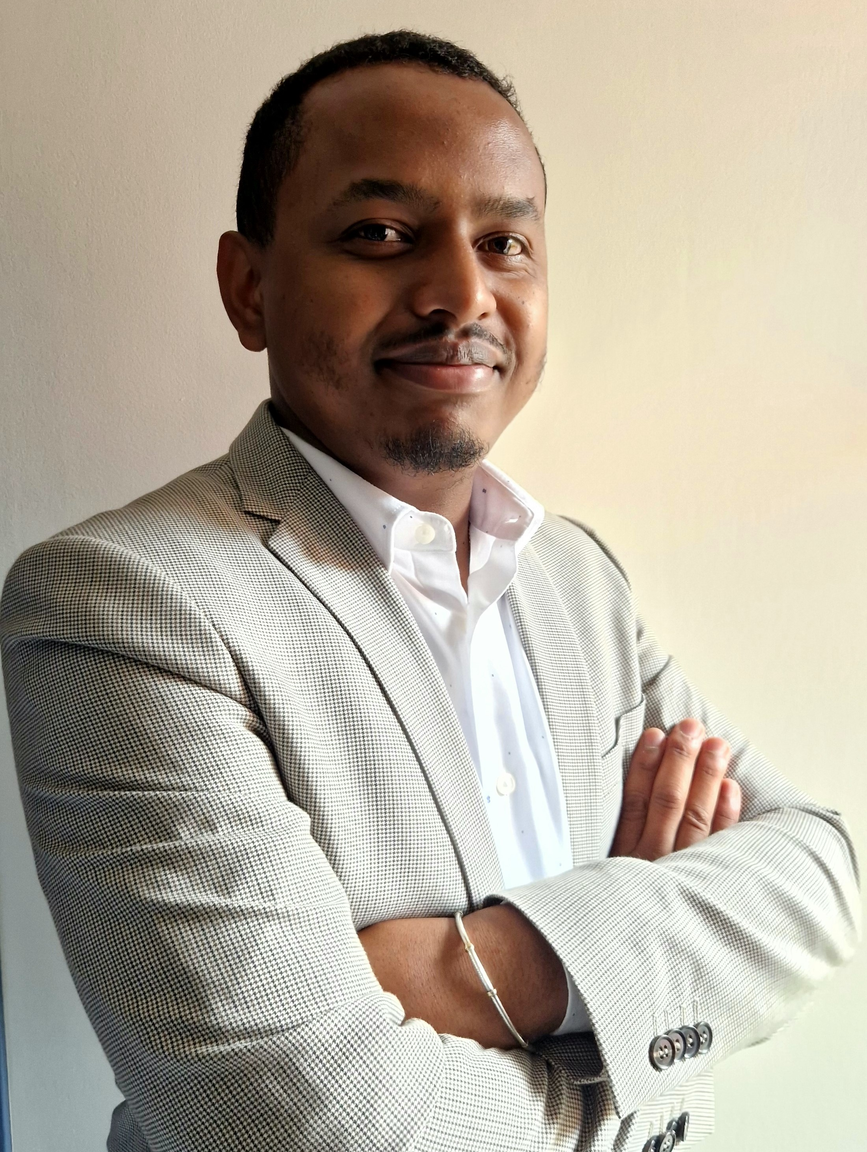
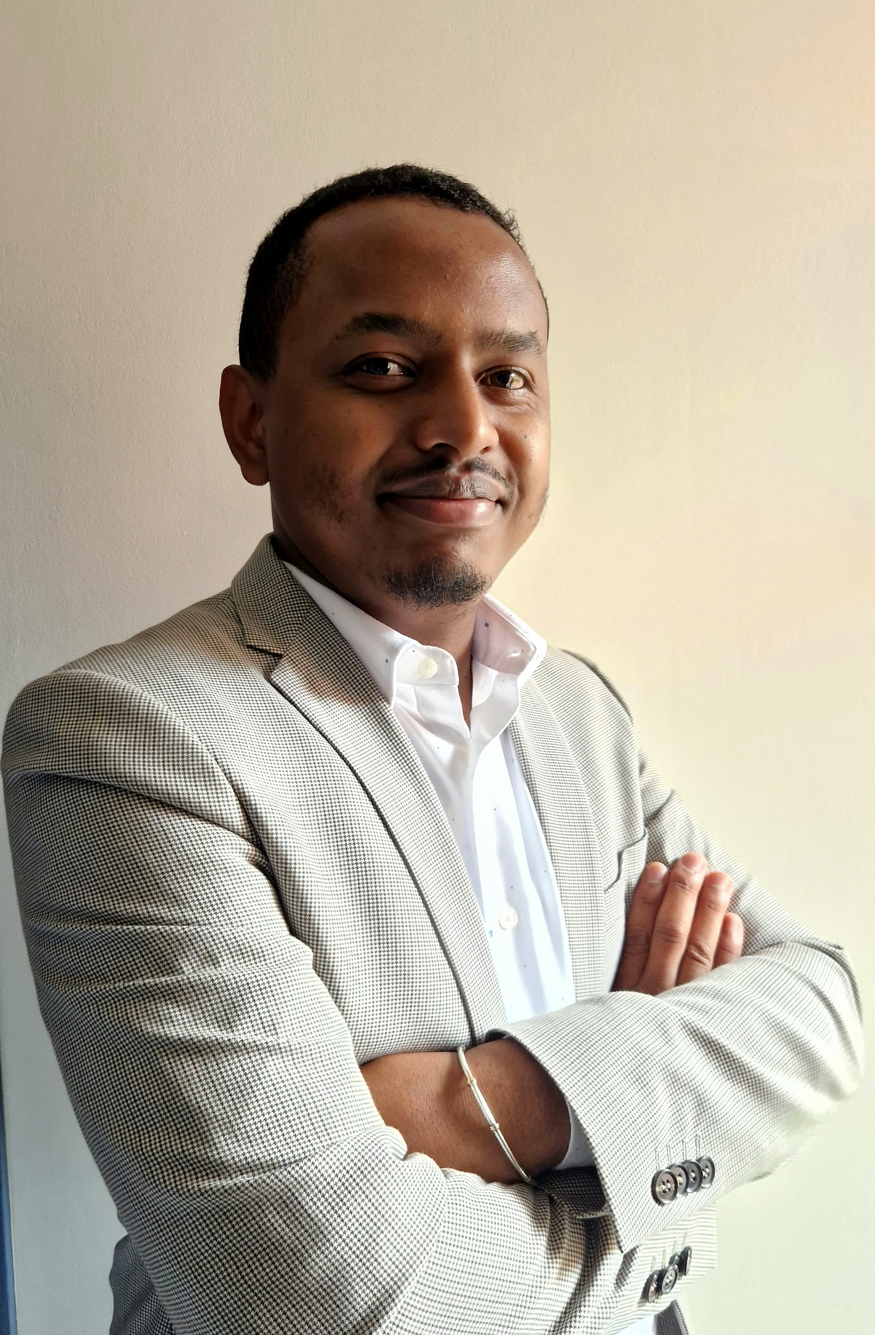
updated profile size

diff --git a/_layouts/home.html b/_layouts/home.html
@@ -34,7 +34,7 @@ layout: default
     <p class="text-gray-500 dark:text-stone-100 mx-5 md:mx-auto pb-4 lg:text-md xl:text-xl">
       I am seeking opportunities to learn and grow while showcasing my expertise. My goal is to be a key player in technology's transformation and, by age 35, dedicate 100% of my resources to sustainable solutions for the greater good. Read <a class="text-gray-500 dark:text-stone-200" href="{{ site.baseurl }}/about">more about me</a>.
     </p>
-    <p class="text-gray-500 dark:text-stone-100 mx-5 md:mx-auto pb-4 lg:text-md xl:text-xl">
+    <p class="text-gray-500 dark:text-slate-400 !py-0 !mt-0 !text-xs">
       <strong>Last update:</strong> July 2024
     </p>
   </section>
